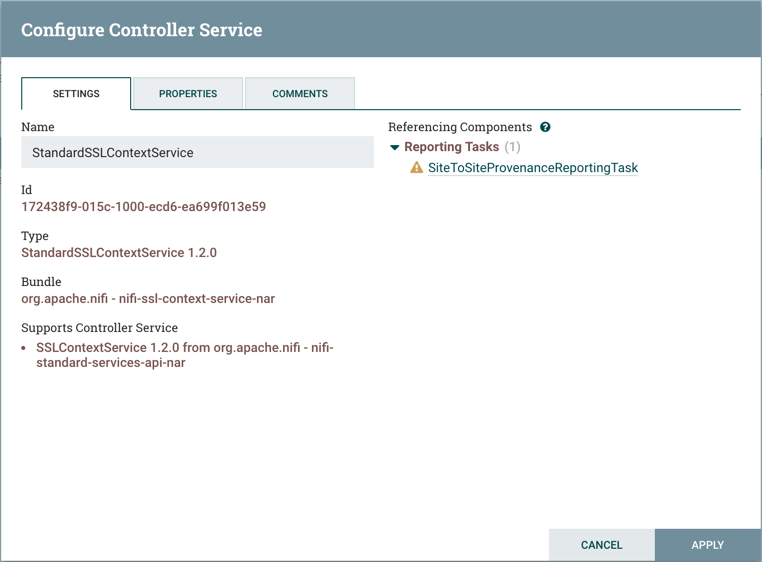
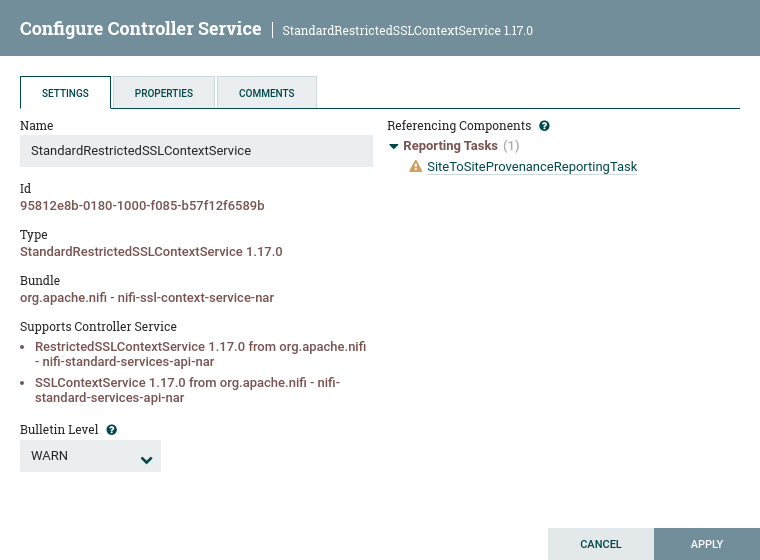
NIFI-9440 Allow Controller Services to have configurable Bulletins
This closes #6035

diff --git a/nifi-nar-bundles/nifi-framework-bundle/nifi-framework/nifi-web/nifi-web-ui/src/main/webapp/js/nf/canvas/nf-controller-service.js b/nifi-nar-bundles/nifi-framework-bundle/nifi-framework/nifi-web/nifi-web-ui/src/main/webapp/js/nf/canvas/nf-controller-service.js
@@ -98,6 +98,9 @@
         if ($('#controller-service-comments').val() !== entity.component['comments']) {
             return true;
         }
+        if ($('#controller-service-bulletin-level-combo').combo('getSelectedOption').value !== (entity.component['bulletinLevel'] + '')) {
+            return true;
+        }
 
         // defer to the properties
         return $('#controller-service-properties').propertytable('isSaveRequired');
@@ -114,6 +117,7 @@
         var controllerServiceDto = {};
         controllerServiceDto['id'] = $('#controller-service-id').text();
         controllerServiceDto['name'] = $('#controller-service-name').val();
+        controllerServiceDto['bulletinLevel'] = $('#controller-service-bulletin-level-combo').combo('getSelectedOption').value;
         controllerServiceDto['comments'] = $('#controller-service-comments').val();
 
         // set the properties
@@ -1858,6 +1862,27 @@
                     }
                 }
             });
+            
+            // initialize the bulletin combo
+            $('#controller-service-bulletin-level-combo').combo({
+                options: [{
+                    text: 'DEBUG',
+                    value: 'DEBUG'
+                }, {
+                    text: 'INFO',
+                    value: 'INFO'
+                }, {
+                    text: 'WARN',
+                    value: 'WARN'
+                }, {
+                    text: 'ERROR',
+                    value: 'ERROR'
+                }, {
+                    text: 'NONE',
+                    value: 'NONE'
+                }]
+            });
+
 
             // initialize the enable scope combo
             $('#enable-controller-service-scope').combo({
@@ -2004,6 +2029,11 @@
                 nfCommon.populateField('controller-service-bundle', nfCommon.formatBundle(controllerService['bundle']));
                 $('#controller-service-name').val(controllerService['name']);
                 $('#controller-service-comments').val(controllerService['comments']);
+
+                // select the appropriate bulletin level
+                $('#controller-service-bulletin-level-combo').combo('setSelectedOption', {
+                    value: controllerService['bulletinLevel']
+                });
 
                 // set the implemented apis
                 if (!nfCommon.isEmpty(controllerService['controllerServiceApis'])) {
@@ -2193,6 +2223,7 @@
                 nfCommon.populateField('controller-service-id', controllerService['id']);
                 nfCommon.populateField('controller-service-type', nfCommon.formatType(controllerService));
                 nfCommon.populateField('controller-service-bundle', nfCommon.formatBundle(controllerService['bundle']));
+                nfCommon.populateField('read-only-controller-service-bulletin-level', controllerService['bulletinLevel']);
                 nfCommon.populateField('read-only-controller-service-name', controllerService['name']);
                 nfCommon.populateField('read-only-controller-service-comments', controllerService['comments']);
 

diff --git a/nifi-nar-bundles/nifi-framework-bundle/nifi-framework/nifi-framework-core/src/test/java/org/apache/nifi/controller/TestFlowController.java b/nifi-nar-bundles/nifi-framework-bundle/nifi-framework/nifi-framework-core/src/test/java/org/apache/nifi/controller/TestFlowController.java
@@ -821,13 +821,15 @@ public class TestFlowController {
         assertEquals(ServiceA.class.getCanonicalName(), controllerServiceNode.getCanonicalClassName());
         assertEquals(ServiceA.class.getSimpleName(), controllerServiceNode.getComponentType());
         assertEquals(ServiceA.class.getCanonicalName(), controllerServiceNode.getComponent().getClass().getCanonicalName());
+        assertEquals(LogLevel.WARN, controllerServiceNode.getBulletinLevel());
 
         controller.getReloadComponent().reload(controllerServiceNode, ServiceB.class.getName(), coordinate, Collections.emptySet());
 
-        // ids and coordinate should stay the same
+        // ids, coordinate and bulletin Level should stay the same
         assertEquals(id, controllerServiceNode.getIdentifier());
         assertEquals(id, controllerServiceNode.getComponent().getIdentifier());
         assertEquals(coordinate.getCoordinate(), controllerServiceNode.getBundleCoordinate().getCoordinate());
+        assertEquals(LogLevel.WARN, controllerServiceNode.getBulletinLevel());
 
         // in this test we happened to change between two services that have different canonical class names
         // but in the running application the DAO layer would call verifyCanUpdateBundle and would prevent this so
@@ -1133,6 +1135,7 @@ public class TestFlowController {
         csDto.setState(controllerServiceNode.getState().name());
         csDto.setAnnotationData(controllerServiceNode.getAnnotationData());
         csDto.setComments(controllerServiceNode.getComments());
+        csDto.setBulletinLevel(controllerServiceNode.getBulletinLevel().name());
         csDto.setPersistsState(controllerServiceNode.getControllerServiceImplementation().getClass().isAnnotationPresent(Stateful.class));
         csDto.setRestricted(controllerServiceNode.isRestricted());
         csDto.setExtensionMissing(controllerServiceNode.isExtensionMissing());
@@ -1164,6 +1167,7 @@ public class TestFlowController {
         csDto.setState(controllerServiceNode.getState().name());
         csDto.setAnnotationData(controllerServiceNode.getAnnotationData());
         csDto.setComments(controllerServiceNode.getComments());
+        csDto.setBulletinLevel(controllerServiceNode.getBulletinLevel().name());
         csDto.setPersistsState(controllerServiceNode.getControllerServiceImplementation().getClass().isAnnotationPresent(Stateful.class));
         csDto.setRestricted(controllerServiceNode.isRestricted());
         csDto.setExtensionMissing(controllerServiceNode.isExtensionMissing());

diff --git a/nifi-nar-bundles/nifi-framework-bundle/nifi-framework/nifi-framework-components/src/main/java/org/apache/nifi/controller/service/StandardControllerServiceNode.java b/nifi-nar-bundles/nifi-framework-bundle/nifi-framework/nifi-framework-components/src/main/java/org/apache/nifi/controller/service/StandardControllerServiceNode.java
@@ -47,6 +47,8 @@ import org.apache.nifi.controller.VerifiableControllerService;
 import org.apache.nifi.controller.exception.ControllerServiceInstantiationException;
 import org.apache.nifi.groups.ProcessGroup;
 import org.apache.nifi.logging.ComponentLog;
+import org.apache.nifi.logging.LogLevel;
+import org.apache.nifi.logging.LogRepositoryFactory;
 import org.apache.nifi.nar.ExtensionManager;
 import org.apache.nifi.nar.InstanceClassLoader;
 import org.apache.nifi.nar.NarCloseable;
@@ -86,6 +88,8 @@ public class StandardControllerServiceNode extends AbstractComponentNode impleme
 
     private static final Logger LOG = LoggerFactory.getLogger(StandardControllerServiceNode.class);
 
+    public static final String BULLETIN_OBSERVER_ID = "bulletin-observer";
+
     private final AtomicReference<ControllerServiceDetails> controllerServiceHolder = new AtomicReference<>(null);
     private final ControllerServiceProvider serviceProvider;
     private final ServiceStateTransition stateTransition;
@@ -98,6 +102,7 @@ public class StandardControllerServiceNode extends AbstractComponentNode impleme
     private final Set<Tuple<ComponentNode, PropertyDescriptor>> referencingComponents = new HashSet<>();
     private volatile String comment;
     private volatile ProcessGroup processGroup;
+    private volatile LogLevel bulletinLevel = LogLevel.WARN;
 
     private final AtomicBoolean active;
 
@@ -712,4 +717,23 @@ public class StandardControllerServiceNode extends AbstractComponentNode impleme
     public ParameterLookup getParameterLookup() {
         return getParameterContext();
     }
+
+
+    @Override
+    public LogLevel getBulletinLevel() {
+        return bulletinLevel;
+    }
+
+    @Override
+    public synchronized void setBulletinLevel(LogLevel level) {
+        // handling backward compatibility with nifi 1.16 and earlier when bulletinLevel did not exist in flow.xml/flow.json
+        // and bulletins were always logged at WARN level
+        if (level == null) {
+            level = LogLevel.WARN;
+        }
+
+        LogRepositoryFactory.getRepository(getIdentifier()).setObservationLevel(BULLETIN_OBSERVER_ID, level);
+        this.bulletinLevel = level;
+    }
+
 }

diff --git a/nifi-nar-bundles/nifi-framework-bundle/nifi-framework/nifi-web/nifi-web-api/src/main/java/org/apache/nifi/web/dao/impl/StandardControllerServiceDAO.java b/nifi-nar-bundles/nifi-framework-bundle/nifi-framework/nifi-web/nifi-web-api/src/main/java/org/apache/nifi/web/dao/impl/StandardControllerServiceDAO.java
@@ -33,6 +33,7 @@ import org.apache.nifi.controller.service.ControllerServiceState;
 import org.apache.nifi.controller.service.StandardConfigurationContext;
 import org.apache.nifi.groups.ProcessGroup;
 import org.apache.nifi.logging.ComponentLog;
+import org.apache.nifi.logging.LogLevel;
 import org.apache.nifi.logging.LogRepository;
 import org.apache.nifi.logging.repository.NopLogRepository;
 import org.apache.nifi.nar.ExtensionManager;
@@ -326,7 +327,8 @@ public class StandardControllerServiceDAO extends ComponentDAO implements Contro
                 controllerServiceDTO.getAnnotationData(),
                 controllerServiceDTO.getComments(),
                 controllerServiceDTO.getProperties(),
-                controllerServiceDTO.getBundle())) {
+                controllerServiceDTO.getBundle(),
+                controllerServiceDTO.getBulletinLevel())) {
             modificationRequest = true;
 
             // validate the request
@@ -356,6 +358,7 @@ public class StandardControllerServiceDAO extends ComponentDAO implements Contro
         final String annotationData = controllerServiceDTO.getAnnotationData();
         final String comments = controllerServiceDTO.getComments();
         final Map<String, String> properties = controllerServiceDTO.getProperties();
+        final String bulletinLevel = controllerServiceDTO.getBulletinLevel();
 
         controllerService.pauseValidationTrigger(); // avoid causing validation to be triggered multiple times
         try {
@@ -371,6 +374,9 @@ public class StandardControllerServiceDAO extends ComponentDAO implements Contro
             if (isNotNull(properties)) {
                 final Set<String> sensitiveDynamicPropertyNames = controllerServiceDTO.getSensitiveDynamicPropertyNames();
                 controllerService.setProperties(properties, false, sensitiveDynamicPropertyNames == null ? Collections.emptySet() : sensitiveDynamicPropertyNames);
+            }
+            if (isNotNull(bulletinLevel)) {
+                controllerService.setBulletinLevel(LogLevel.valueOf(bulletinLevel));
             }
         } finally {
             controllerService.resumeValidationTrigger();

diff --git a/nifi-nar-bundles/nifi-framework-bundle/nifi-framework/nifi-framework-core/src/main/java/org/apache/nifi/controller/service/ControllerServiceLoader.java b/nifi-nar-bundles/nifi-framework-bundle/nifi-framework/nifi-framework-core/src/main/java/org/apache/nifi/controller/service/ControllerServiceLoader.java
@@ -23,6 +23,7 @@ import org.apache.nifi.controller.serialization.FlowEncodingVersion;
 import org.apache.nifi.controller.serialization.FlowFromDOMFactory;
 import org.apache.nifi.encrypt.PropertyEncryptor;
 import org.apache.nifi.groups.ProcessGroup;
+import org.apache.nifi.logging.LogLevel;
 import org.apache.nifi.reporting.BulletinRepository;
 import org.apache.nifi.util.BundleUtils;
 import org.apache.nifi.util.DomUtils;
@@ -175,6 +176,7 @@ public class ControllerServiceLoader {
                 controllerService.getBundleCoordinate(), Collections.emptySet(), false, true, null);
         clone.setName(controllerService.getName());
         clone.setComments(controllerService.getComments());
+        clone.setBulletinLevel(controllerService.getBulletinLevel());
 
         if (controllerService.getProperties() != null) {
             Map<String,String> properties = new HashMap<>();
@@ -206,6 +208,15 @@ public class ControllerServiceLoader {
         final ControllerServiceNode node = flowController.getFlowManager().createControllerService(dto.getType(), dto.getId(), coordinate, Collections.emptySet(), false, true, null);
         node.setName(dto.getName());
         node.setComments(dto.getComments());
+
+        if (dto.getBulletinLevel() != null) {
+            node.setBulletinLevel(LogLevel.valueOf(dto.getBulletinLevel()));
+        } else {
+            // this situation exists for backward compatibility with nifi 1.16 and earlier where controller services do not have bulletinLevels set in flow.xml/flow.json
+            // and bulletinLevels are at the WARN level by default
+            node.setBulletinLevel(LogLevel.WARN);
+        }
+
         node.setVersionedComponentId(dto.getVersionedComponentId());
         return node;
     }

diff --git a/nifi-nar-bundles/nifi-framework-bundle/nifi-framework/nifi-framework-core/src/main/java/org/apache/nifi/controller/serialization/VersionedFlowSynchronizer.java b/nifi-nar-bundles/nifi-framework-bundle/nifi-framework/nifi-framework-core/src/main/java/org/apache/nifi/controller/serialization/VersionedFlowSynchronizer.java
@@ -68,6 +68,7 @@ import org.apache.nifi.groups.ComponentIdGenerator;
 import org.apache.nifi.groups.ComponentScheduler;
 import org.apache.nifi.groups.FlowSynchronizationOptions;
 import org.apache.nifi.groups.ProcessGroup;
+import org.apache.nifi.logging.LogLevel;
 import org.apache.nifi.nar.ExtensionManager;
 import org.apache.nifi.parameter.Parameter;
 import org.apache.nifi.parameter.ParameterContext;
@@ -752,6 +753,14 @@ public class VersionedFlowSynchronizer implements FlowSynchronizer {
             serviceNode.setName(versionedControllerService.getName());
             serviceNode.setAnnotationData(versionedControllerService.getAnnotationData());
             serviceNode.setComments(versionedControllerService.getComments());
+
+            if (versionedControllerService.getBulletinLevel() != null) {
+                serviceNode.setBulletinLevel(LogLevel.valueOf(versionedControllerService.getBulletinLevel()));
+            } else {
+                // this situation exists for backward compatibility with nifi 1.16 and earlier where controller services do not have bulletinLevels set in flow.xml/flow.json
+                // and bulletinLevels are at the WARN level by default
+                serviceNode.setBulletinLevel(LogLevel.WARN);
+            }
 
             final Set<String> sensitiveDynamicPropertyNames = getSensitiveDynamicPropertyNames(serviceNode, versionedControllerService);
             final Map<String, String> decryptedProperties = decryptProperties(versionedControllerService.getProperties(), encryptor);

diff --git a/nifi-nar-bundles/nifi-framework-bundle/nifi-framework/nifi-web/nifi-web-api/src/main/java/org/apache/nifi/web/api/dto/DtoFactory.java b/nifi-nar-bundles/nifi-framework-bundle/nifi-framework/nifi-web/nifi-web-api/src/main/java/org/apache/nifi/web/api/dto/DtoFactory.java
@@ -1635,6 +1635,7 @@ public final class DtoFactory {
         dto.setState(controllerServiceNode.getState().name());
         dto.setAnnotationData(controllerServiceNode.getAnnotationData());
         dto.setComments(controllerServiceNode.getComments());
+        dto.setBulletinLevel(controllerServiceNode.getBulletinLevel().name());
         dto.setPersistsState(controllerServiceClass.isAnnotationPresent(Stateful.class));
         dto.setSupportsSensitiveDynamicProperties(controllerServiceNode.isSupportsSensitiveDynamicProperties());
         dto.setRestricted(controllerServiceNode.isRestricted());
@@ -4128,6 +4129,7 @@ public final class DtoFactory {
         copy.setId(original.getId());
         copy.setParentGroupId(original.getParentGroupId());
         copy.setName(original.getName());
+        copy.setBulletinLevel(original.getBulletinLevel());
         copy.setProperties(copy(original.getProperties()));
         copy.setSensitiveDynamicPropertyNames(copy(original.getSensitiveDynamicPropertyNames()));
         copy.setReferencingComponents(copy(original.getReferencingComponents()));

diff --git a/nifi-nar-bundles/nifi-framework-bundle/nifi-framework/nifi-framework-components/src/main/java/org/apache/nifi/flow/synchronization/StandardVersionedComponentSynchronizer.java b/nifi-nar-bundles/nifi-framework-bundle/nifi-framework/nifi-framework-components/src/main/java/org/apache/nifi/flow/synchronization/StandardVersionedComponentSynchronizer.java
@@ -1197,6 +1197,14 @@ public class StandardVersionedComponentSynchronizer implements VersionedComponen
             service.setComments(proposed.getComments());
             service.setName(proposed.getName());
 
+            if (proposed.getBulletinLevel() != null) {
+                service.setBulletinLevel(LogLevel.valueOf(proposed.getBulletinLevel()));
+            } else {
+                // this situation exists for backward compatibility with nifi 1.16 and earlier where controller services do not have bulletinLevels set in flow.xml/flow.json
+                // and bulletinLevels are at the WARN level by default
+                service.setBulletinLevel(LogLevel.WARN);
+            }
+
             final Set<String> sensitiveDynamicPropertyNames = getSensitiveDynamicPropertyNames(service, proposed.getProperties(), proposed.getPropertyDescriptors().values());
             final Map<String, String> properties = populatePropertiesMap(service, proposed.getProperties(), service.getProcessGroup());
             service.setProperties(properties, true, sensitiveDynamicPropertyNames);

diff --git a/nifi-nar-bundles/nifi-framework-bundle/nifi-framework/nifi-framework-core/src/main/java/org/apache/nifi/controller/StandardFlowSnippet.java b/nifi-nar-bundles/nifi-framework-bundle/nifi-framework/nifi-framework-core/src/main/java/org/apache/nifi/controller/StandardFlowSnippet.java
@@ -239,6 +239,15 @@ public class StandardFlowSnippet implements FlowSnippet {
                 serviceNode.setAnnotationData(controllerServiceDTO.getAnnotationData());
                 serviceNode.setComments(controllerServiceDTO.getComments());
                 serviceNode.setName(controllerServiceDTO.getName());
+
+                if (controllerServiceDTO.getBulletinLevel() != null) {
+                    serviceNode.setBulletinLevel(LogLevel.valueOf(controllerServiceDTO.getBulletinLevel()));
+                } else {
+                    // this situation exists for backward compatibility with nifi 1.16 and earlier where controller services do not have bulletinLevels set in flow.xml/flow.json
+                    // and bulletinLevels are at the WARN level by default
+                    serviceNode.setBulletinLevel(LogLevel.WARN);
+                }
+
                 if (!topLevel) {
                     serviceNode.setVersionedComponentId(controllerServiceDTO.getVersionedComponentId());
                 }

diff --git a/nifi-api/src/main/java/org/apache/nifi/flow/VersionedControllerService.java b/nifi-api/src/main/java/org/apache/nifi/flow/VersionedControllerService.java
@@ -27,6 +27,7 @@ public class VersionedControllerService extends VersionedConfigurableExtension {
 
     private String annotationData;
     private ScheduledState scheduledState;
+    private String bulletinLevel;
 
     @ApiModelProperty(value = "Lists the APIs this Controller Service implements.")
     public List<ControllerServiceAPI> getControllerServiceApis() {
@@ -58,5 +59,14 @@ public class VersionedControllerService extends VersionedConfigurableExtension {
 
     public void setScheduledState(final ScheduledState scheduledState) {
         this.scheduledState = scheduledState;
+    }
+
+    @ApiModelProperty("The level at which the controller service will report bulletins.")
+    public String getBulletinLevel() {
+        return bulletinLevel;
+    }
+
+    public void setBulletinLevel(String bulletinLevel) {
+        this.bulletinLevel = bulletinLevel;
     }
 }

diff --git a/nifi-nar-bundles/nifi-framework-bundle/nifi-framework/nifi-web/nifi-web-api/src/main/java/org/apache/nifi/audit/ControllerServiceAuditor.java b/nifi-nar-bundles/nifi-framework-bundle/nifi-framework/nifi-web/nifi-web-api/src/main/java/org/apache/nifi/audit/ControllerServiceAuditor.java
@@ -62,6 +62,7 @@ public class ControllerServiceAuditor extends NiFiAuditor {
     private static final String NAME = "Name";
     private static final String ANNOTATION_DATA = "Annotation Data";
     private static final String EXTENSION_VERSION = "Extension Version";
+    private static final String BULLETIN_LEVEL = "Bulletin Level";
 
     /**
      * Audits the creation of controller service via createControllerService().
@@ -435,6 +436,9 @@ public class ControllerServiceAuditor extends NiFiAuditor {
         }
         if (controllerServiceDTO.getComments() != null) {
             values.put(COMMENTS, controllerService.getComments());
+        }
+        if (controllerServiceDTO.getBulletinLevel() != null) {
+            values.put(BULLETIN_LEVEL, controllerService.getBulletinLevel().name());
         }
 
         return values;

diff --git a/nifi-nar-bundles/nifi-framework-bundle/nifi-framework/nifi-client-dto/src/main/java/org/apache/nifi/web/api/dto/ControllerServiceDTO.java b/nifi-nar-bundles/nifi-framework-bundle/nifi-framework/nifi-client-dto/src/main/java/org/apache/nifi/web/api/dto/ControllerServiceDTO.java
@@ -58,6 +58,7 @@ public class ControllerServiceDTO extends ComponentDTO {
 
     private Collection<String> validationErrors;
     private String validationStatus;
+    private String bulletinLevel;
 
     /**
      * @return controller service name
@@ -131,6 +132,20 @@ public class ControllerServiceDTO extends ComponentDTO {
 
     public void setComments(String comments) {
         this.comments = comments;
+    }
+
+    /**
+     * @return the level at which this controller service will report bulletins
+     */
+    @ApiModelProperty(
+            value = "The level at which the controller service will report bulletins."
+    )
+    public String getBulletinLevel() {
+        return bulletinLevel;
+    }
+
+    public void setBulletinLevel(String bulletinLevel) {
+        this.bulletinLevel = bulletinLevel;
     }
 
     /**
